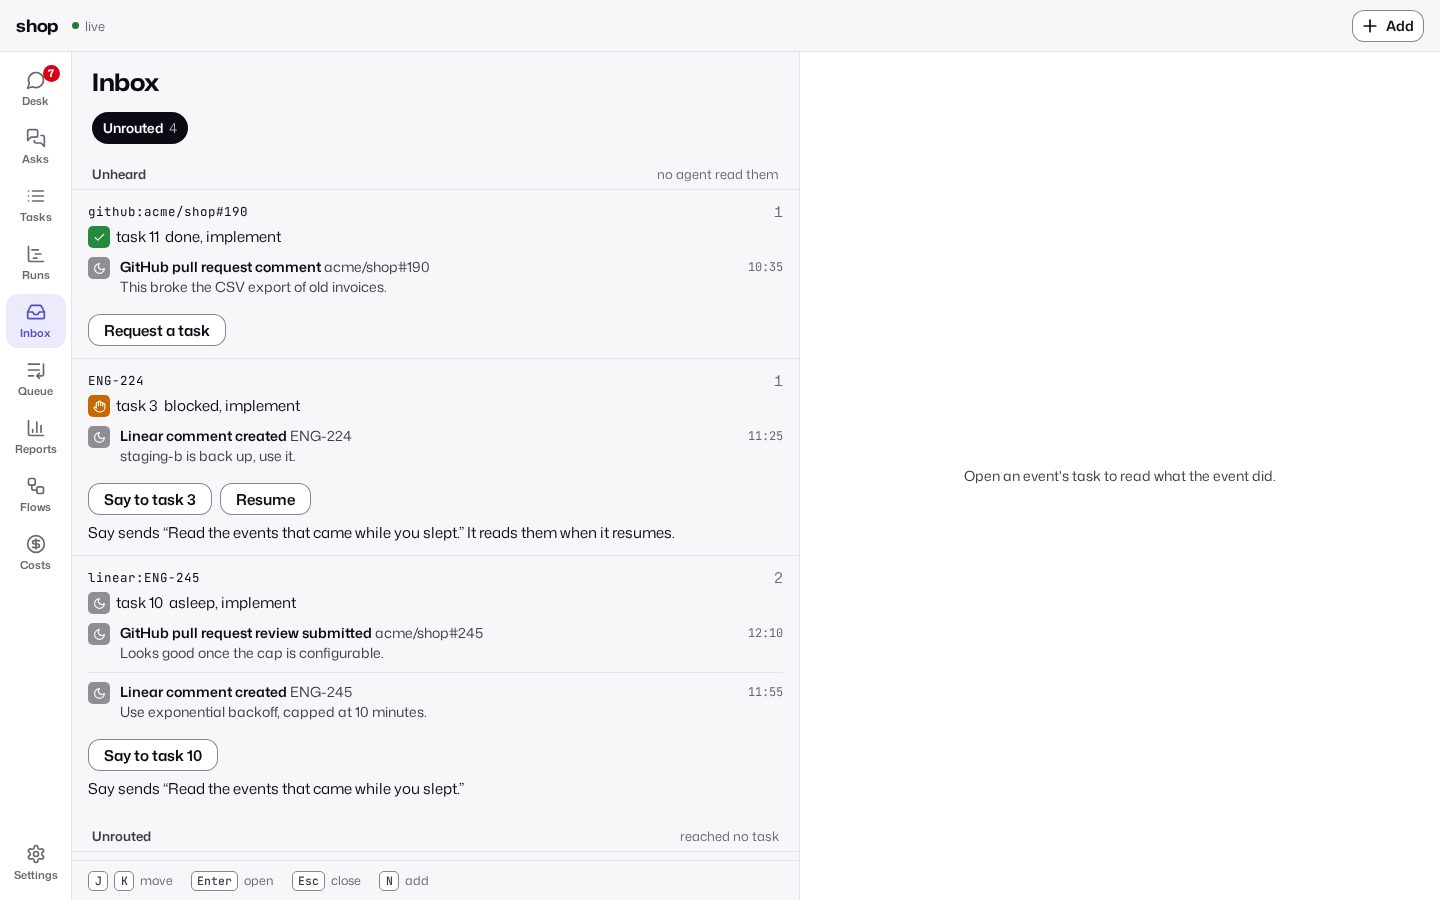
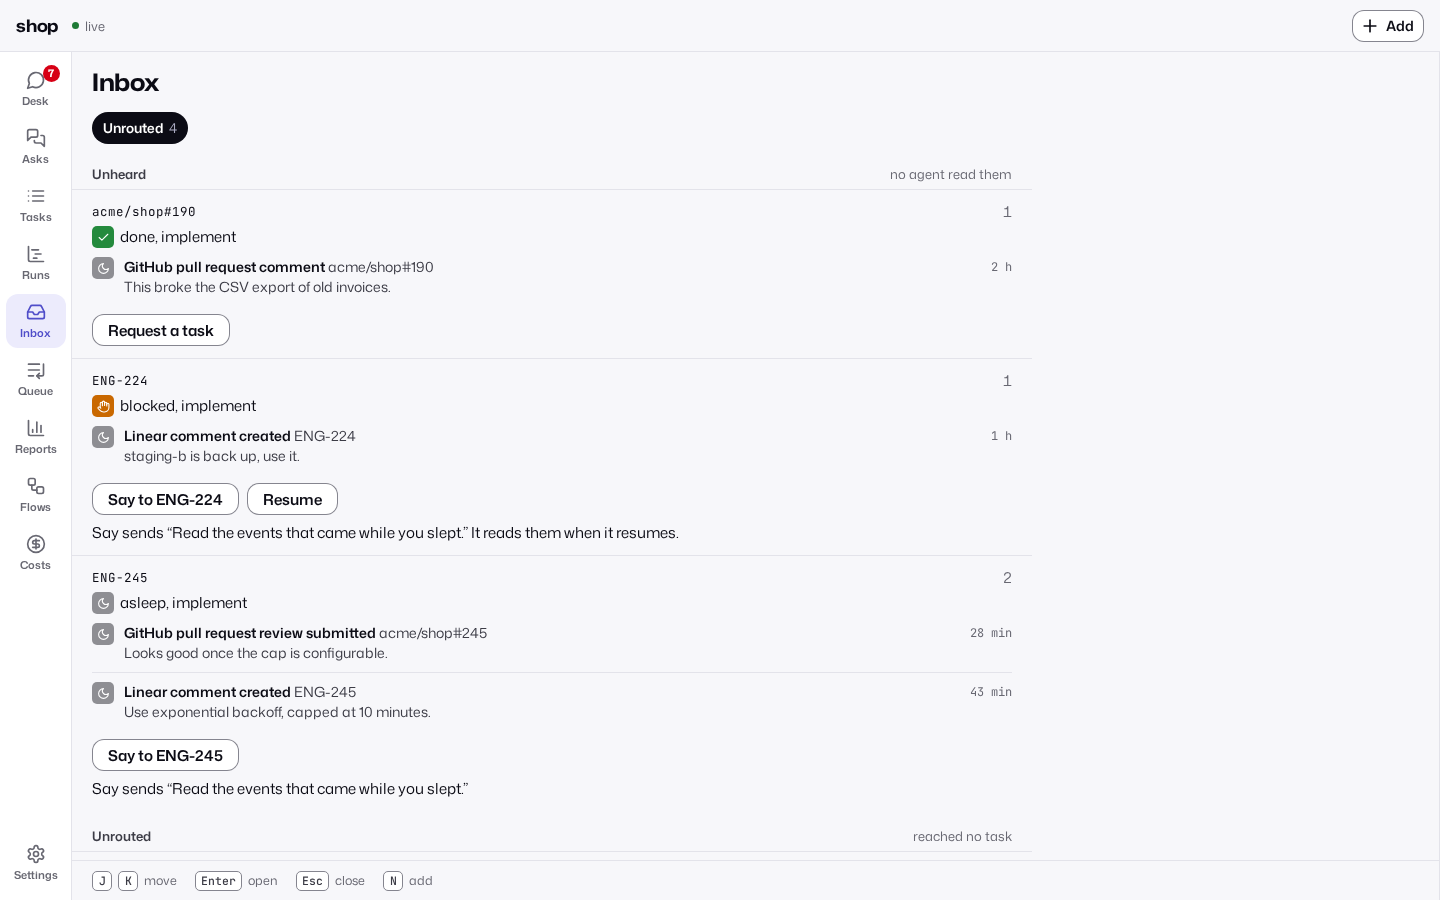
Use the wide screen: open the oldest ask, drop the Inbox drawer, cap pages at 960 px
The design review's slice 8 (m18 and the gutter polish), with the options Max chose on the
wide-screen board: 1B, 2B, 3B and 4B.

- A person who arrives on the wide Desk finds its oldest ask open in the drawer, its row
  marked. Closing it with Esc or the close button leaves the drawer empty until they leave the
  Desk. A redraw, another saved view or Back to the Desk never opens one.
- The Inbox has no drawer, as Tasks, Runs and Queue: its events open no detail. Its groups are
  at most 960 px wide.
- The task, batch and memories pages are at most 960 px wide, against the rail. The tables of
  Tasks, Runs and Queue keep the full width.
- `--gutter` is 20 px inside the wide layout, so bodies line up with titles. The Inbox group's
  16 px and the key hint bar's 16 px use the token, and the back link's chevron lines up with
  the context line under it.
- On wide screens a check's result and a feedback item's class sit beside the name, in one
  column, not at the row's right edge.

diff --git a/crates/priory-core/web/app.js b/crates/priory-core/web/app.js
@@ -11,7 +11,7 @@ import { KINDS, edgeStyle, historyRows, lockBadge, nodeShape, timeline, ungatedP
 import { emptyDetail, eventWords, handled, neverOwned, sinceWords, routeAction, unheardActs, unheardNote, unroutedNote } from "./inbox.js";
 import { editBody, issueName, laneLayout, momentWords, stages, successors } from "./batches.js";
 import { EARLIER_CAP, KEYS, keyboardSession, paintRows, sayLine, screenRows, screenWatch } from "./terminal.js";
-import { actionNote, batchParts, capsuleWords, countHead, countWords, dueParts, memoryNote, memoryTag, mergeSince, nextLink, onRoom, progressView, rowAction, sectionInView, sinceGroups } from "./desk.js";
+import { actionNote, arrivalAsk, batchParts, capsuleWords, countHead, countWords, dueParts, memoryNote, memoryTag, mergeSince, nextLink, onRoom, progressView, rowAction, sectionInView, sinceGroups } from "./desk.js";
 import { TASK_VIEWS, elsewhere, filtered, olderPart, remoteActs, remoteId, remoteSent, taskFacets, taskLabel, taskViews, triageWords, workStep } from "./tasks.js";
 import { RUN_FACETS, RUN_VIEWS, duration, runState, runViews, tokenText } from "./runs.js";
 import { PANELS, backTo, pageTitle } from "./pages.js";
@@ -140,6 +140,8 @@ const state = {
   signInError: null,
   list: "desk",
   listUrl: "/",
+  // The page the last loaded render drew, so the Desk knows a person arrived rather than closed an ask.
+  drawn: null,
   // The last list the person opened; a task or batch page opened next keeps it in its history entry.
   from: null,
   snapshot: null,
@@ -326,7 +328,7 @@ function signOut(reason) {
   watch.stop();
   // Before the token goes: giving the keyboard back needs it.
   keyboard.leave();
-  Object.assign(state, { token: null, data: null, snapshot: null, revision: undefined, signInError: reason, flowsError: null, all: { asks: false, tasks: false, runs: false }, costs: { by: "workflow", loading: false, slow: false, error: null } });
+  Object.assign(state, { token: null, data: null, snapshot: null, revision: undefined, signInError: reason, drawn: null, flowsError: null, all: { asks: false, tasks: false, runs: false }, costs: { by: "workflow", loading: false, slow: false, error: null } });
   render();
 }
 
@@ -1517,7 +1519,7 @@ function taskSections(task) {
   if (pr) {
     sections.push(["pr", "PR", sect("pr", "workflow", `#${pr.number} ${pr.title || ""}`, stateWords(pr.review),
       html`<p class="meta">${pr.branch} into ${pr.base}, head <span class="mono">${String(pr.head_sha).slice(0, 7)}</span>, ${pr.state}</p>
-      <ol class="hist">${pr.checks.map((check) => html`<li>${tile(checkState(check.conclusion), "sm")}<span>${check.name}</span><span>${check.conclusion ? stateWords(check.conclusion) : "running"}</span></li>`)}</ol>${prStackList(task.stack, pr)}${triageList(task.triage)}`)]);
+      <ol class="hist pair">${pr.checks.map((check) => html`<li>${tile(checkState(check.conclusion), "sm")}<span>${check.name}</span><span>${check.conclusion ? stateWords(check.conclusion) : "running"}</span></li>`)}</ol>${prStackList(task.stack, pr)}${triageList(task.triage)}`)]);
   } else if (prs(task)) {
     // The summary needs the pull request's events; the stack does not.
     sections.push(["pr", "PR", sect("pr", "workflow", prs(task), "", html`${prStackList(task.stack, null)}${triageList(task.triage)}`)]);
@@ -1773,7 +1775,7 @@ function triageList(triage) {
   if (!triage?.length) return "";
   const label = (item) => item.replace(/^https:\/\/github\.com\//, "");
   const named = (item) => (item.startsWith("https://") ? html`<a class="autolink" href="${item}" rel="noopener noreferrer" target="_blank">${label(item)}</a>` : item);
-  return html`<p class="meta">Feedback, as the agent sorted it</p><ol class="hist" aria-label="Review feedback items">${triage.map((entry) => html`<li>${tile(TRIAGE_TILES[entry.class] || "queued", "sm")}<span>${named(entry.item)}</span><span>${triageWords(entry.class)}</span></li>`)}</ol>`;
+  return html`<p class="meta">Feedback, as the agent sorted it</p><ol class="hist pair" aria-label="Review feedback items">${triage.map((entry) => html`<li>${tile(TRIAGE_TILES[entry.class] || "queued", "sm")}<span>${named(entry.item)}</span><span>${triageWords(entry.class)}</span></li>`)}</ol>`;
 }
 
 const PULL_TILES = { merged: "done", closed: "dropped" };
@@ -2760,7 +2762,7 @@ function listPanel(panel, wide) {
       ${nextCard(model)}${views}${banner}<div class="scroll">${rows}</div>${wide ? keyHints() : ""}</div>`;
   }
   if (panel === "inbox") {
-    return html`<div class="list" role="region" aria-label="Inbox"><div class="lhead"><h1>Inbox</h1></div>${inboxViews()}<div class="scroll">${unroutedRows()}</div>${wide ? keyHints() : ""}</div>`;
+    return html`<div class="list inbox" role="region" aria-label="Inbox"><div class="lhead"><h1>Inbox</h1></div>${inboxViews()}<div class="scroll">${unroutedRows()}</div>${wide ? keyHints() : ""}</div>`;
   }
   if (panel === "asks") {
     const { views, rows } = asksBody(wide);
@@ -2833,6 +2835,8 @@ async function moveTask(target) {
 }
 
 // Lists whose rows open a page of their own, so they take the whole width, with no drawer.
+// The Inbox has none either: its events open no detail.
+const NO_DRAWER = new Set(["tasks", "runs", "queue", "inbox"]);
 const OWN_PAGE_LISTS = { tasks: tasksBody, runs: runsBody, queue: queueBody };
 
 const keyHints = () => html`<div class="keys"><span><kbd>J</kbd><kbd>K</kbd>move</span><span><kbd>Enter</kbd>open</span><span><kbd>Esc</kbd>close</span><span><kbd>N</kbd>add</span></div>`;
@@ -2958,6 +2962,12 @@ function page() {
   if (!state.data) return loading();
   const size = layout();
   const here = current();
+  const arrival = size === "wide" && here === "desk" && !selectedAsk() && arrivalAsk({ from: state.drawn, list: state.list, view: deskView(), asks: openAsks() });
+  if (arrival) {
+    Object.assign(state, { list: "desk", listUrl: routeKey() });
+    history.replaceState(history.state, "", `/asks/${encodeURIComponent(arrival)}`);
+  }
+  state.drawn = routeKey();
   if (["desk", "asks"].includes(here) && !selectedAsk()) Object.assign(state, { list: here, listUrl: routeKey() });
   const taskId = here === "tasks" && /^\d+$/.test(route()[1] || "") ? Number(route()[1]) : null;
   const batchId = here === "batches" && /^\d+$/.test(route()[1] || "") ? route()[1] : null;
@@ -2994,9 +3004,10 @@ function page() {
   const utility = taskId ? taskPage(taskId) : batchId ? batchPage(batchId) : here === "memories" ? memoriesPage() : here === "reports" ? reportsPage(false) : here === "costs" ? costsPage(false) : here === "workflow" ? flowsPage(false) : here === "settings" ? settingsScreen() : here === "more" ? morePage() : PANELS[list] ? null : notFound();
   const nav = (kind) => tabs(here === "settings" && wide ? "settings" : here === "settings" ? "more" : batchId ? "tasks" : here === "memories" ? "desk" : list, kind);
   if (utility) {
-    return html`${staleStrip()}${top}<div class="${size} no-drawer">${wide ? nav("rail") : ""}<div class="list">${utility}</div></div>${wide ? "" : nav("bar")}`;
+    const capped = taskId || batchId || here === "memories" ? "page" : "";
+    return html`${staleStrip()}${top}<div class="${size} no-drawer">${wide ? nav("rail") : ""}<div class="list ${capped}">${utility}</div></div>${wide ? "" : nav("bar")}`;
   }
-  if (OWN_PAGE_LISTS[list]) return html`${staleStrip()}${top}<div class="${size} no-drawer">${wide ? nav("rail") : ""}${listPanel(list, wide)}</div>${wide ? "" : nav("bar")}`;
+  if (NO_DRAWER.has(list)) return html`${staleStrip()}${top}<div class="${size} no-drawer">${wide ? nav("rail") : ""}${listPanel(list, wide)}</div>${wide ? "" : nav("bar")}`;
   if (!wide) return html`${staleStrip()}${top}<div class="medium">${listPanel(list, false)}${drawer(false, [list])}</div>${nav("bar")}`;
   const layoutNode = view().layout;
   const plain = layoutNode.tabs?.every((child) => child.panel);

diff --git a/crates/priory-core/web/app.css b/crates/priory-core/web/app.css
@@ -152,7 +152,7 @@ a.facet[aria-current="true"] { background: var(--action-soft); color: var(--acti
 .next .rec { display: flex; gap: 6px; align-items: baseline; color: var(--text-2); font: 400 var(--type-small) var(--font-ui); }
 .next .rec span { display: -webkit-box; -webkit-line-clamp: 2; -webkit-box-orient: vertical; overflow: hidden; overflow-wrap: anywhere; }
 .next .btn { justify-self: start; }
-.wide .next { margin-left: 20px; margin-right: 20px; max-width: 440px; }
+.wide .next { max-width: 440px; }
 .since .sgroup + .sgroup { margin-top: 10px; padding-top: 10px; border-top: 1px solid var(--line); }
 .since .sgroup > .mono { color: var(--text); font-size: 13px; }
 .since li { padding: 4px 0; }
@@ -249,7 +249,7 @@ a.autolink { color: var(--action-text); text-decoration: underline; text-underli
 .more .write { margin-left: 0; }
 .writeform { flex: 1 0 100%; display: grid; gap: 8px; padding-left: 12px; }
 .writeform .btn { justify-self: end; }
-.ugroup { padding: 12px 16px; border-top: 1px solid var(--line); }
+.ugroup { padding: 12px var(--gutter); border-top: 1px solid var(--line); }
 .ugroup .l1 { display: flex; justify-content: space-between; gap: 8px; margin: 0 0 4px; }
 .ugroup .l1 .num { color: var(--text-3); font-variant-numeric: tabular-nums; }
 .routeform { display: flex; flex-wrap: wrap; gap: 8px; margin-top: 8px; }
@@ -273,7 +273,7 @@ textarea { font: 400 16px/22px var(--font-ui); color: var(--text); background: v
 /* Wide frame */
 .wtop { height: var(--top-bar); flex: none; display: flex; align-items: center; gap: 14px; padding: 0 16px; border-bottom: 1px solid var(--line); }
 /* Below 1280 px the drawer gives up width so the list keeps room for its questions. */
-.wide { flex: 1; min-height: 0; display: grid; grid-template-columns: var(--rail) minmax(0, 1fr) min(var(--drawer), 50vw); }
+.wide { --gutter: 20px; flex: 1; min-height: 0; display: grid; grid-template-columns: var(--rail) minmax(0, 1fr) min(var(--drawer), 50vw); }
 .medium { flex: 1; min-height: 0; display: grid; grid-template-columns: minmax(320px, 400px) minmax(0, 1fr); }
 .rail { border-right: 1px solid var(--line); display: flex; flex-direction: column; align-items: center; gap: 4px; padding: 10px 0; background: var(--bar); }
 .rail a { width: 60px; height: 54px; border-radius: var(--radius-md); display: flex; flex-direction: column; align-items: center; justify-content: center; gap: 4px; font: 600 var(--type-tab) var(--font-ui); color: var(--text-3); position: relative; }
@@ -287,10 +287,15 @@ textarea { font: 400 16px/22px var(--font-ui); color: var(--text); background: v
 .lhead .cnt .n { font: var(--count-weight) var(--type-count-wide) var(--font-display); font-stretch: var(--count-stretch); letter-spacing: calc(var(--count-tracking) / 2); color: var(--count); }
 .lhead .cnt .w { font: 650 15px/18px var(--font-ui); padding-bottom: 4px; }
 .lhead .cnt .w span { display: block; font: 400 var(--type-caption) var(--font-ui); color: var(--text-3); }
-.wide .views, .wide .facets, .wide .sec { padding-left: 20px; padding-right: 20px; }
 .wide .facet > summary, .wide a.facet { height: var(--control-fine); font-size: 13.5px; }
 .wide .views a { height: var(--control-fine); font-size: 13.5px; }
-.wide .banner, .wide .strip { margin-left: 20px; margin-right: 20px; }
+/* The back link's chevron lines up with the context line under it. */
+.wide .top .back { margin-left: -16px; }
+/* A page reads at 960 px against the rail; the Tasks, Runs and Queue tables keep the full width. */
+.wide .page > .scroll > *, .wide .inbox > :is(.lhead, .views), .wide .inbox > .scroll > * { max-width: 960px; }
+/* A check's or feedback item's result sits beside its name, the results in one column. */
+.wide .hist.pair { display: grid; grid-template-columns: 22px auto minmax(0, 1fr); column-gap: 10px; }
+.wide .hist.pair li { grid-column: 1 / -1; grid-template-columns: subgrid; }
 .tbl { border-collapse: collapse; width: calc(100% - 40px); margin: 6px 20px 0; font: 400 14px/18px var(--font-ui); table-layout: fixed; }
 .tbl th { text-align: left; font: 600 var(--type-caption) var(--font-ui); color: var(--text-3); padding: 8px 8px 6px; }
 .tbl td { height: var(--row-wide); padding: 0 8px; border-top: 1px solid var(--line); white-space: nowrap; overflow: hidden; text-overflow: ellipsis; cursor: pointer; }
@@ -305,7 +310,7 @@ textarea { font: 400 16px/22px var(--font-ui); color: var(--text); background: v
 .tbl th:nth-child(5) { width: 150px; } .tbl th:nth-child(6) { width: 64px; }
 .tbl td.q { white-space: normal; padding-top: 8px; padding-bottom: 8px; }
 .tbl td.q span { display: -webkit-box; -webkit-line-clamp: 2; -webkit-box-orient: vertical; overflow: hidden; overflow-wrap: anywhere; }
-.keys { display: flex; gap: 18px; align-items: center; font: 400 12.5px/1 var(--font-ui); color: var(--text-3); padding: 0 16px; height: 40px; border-top: 1px solid var(--line); flex: none; }
+.keys { display: flex; gap: 18px; align-items: center; font: 400 12.5px/1 var(--font-ui); color: var(--text-3); padding: 0 var(--gutter); height: 40px; border-top: 1px solid var(--line); flex: none; }
 .keys span { display: inline-flex; gap: 6px; align-items: center; }
 .drawer { background: var(--surface); display: flex; flex-direction: column; min-height: 0; min-width: 0; }
 .drawer .jump { background: var(--surface); }

diff --git a/crates/priory-core/web/desk.test.js b/crates/priory-core/web/desk.test.js
@@ -1,6 +1,6 @@
 import { test } from "node:test";
 import assert from "node:assert/strict";
-import { nextLink, onRoom, sinceGroups, mergeSince, progressView, sectionInView, dueText, rowAction, actionNote, batchParts, countWords, memoryNote, memoryTag, capsuleWords, countHead } from "./desk.js";
+import { nextLink, onRoom, sinceGroups, mergeSince, progressView, sectionInView, dueText, rowAction, actionNote, batchParts, countWords, memoryNote, memoryTag, capsuleWords, countHead, arrivalAsk } from "./desk.js";
 
 const why = "work stopped and waits on a person";
 
@@ -163,4 +163,16 @@ test("the capsule answers while live, and only reads the asks while offline", ()
   assert.deepEqual(capsuleWords(7, false), { text: "Answer 7 asks", icon: "ask", off: false });
   assert.deepEqual(capsuleWords(1, false), { text: "Answer 1 ask", icon: "ask", off: false });
   assert.deepEqual(capsuleWords(7, true), { text: "Read 7 asks, offline", icon: "unplug", off: true });
+});
+
+test("a wide Desk opens its oldest ask on arrival, and stays empty once that drawer closes", () => {
+  const asks = [{ id: 7 }, { id: 3 }];
+  assert.equal(arrivalAsk({ from: null, list: "desk", view: "needs", asks }), 7);
+  assert.equal(arrivalAsk({ from: "/tasks/4", list: "desk", view: "needs", asks }), 7);
+  assert.equal(arrivalAsk({ from: "/asks/9", list: "asks", view: "needs", asks }), 7);
+  assert.equal(arrivalAsk({ from: "/asks/7", list: "desk", view: "needs", asks }), null);
+  assert.equal(arrivalAsk({ from: "/", list: "desk", view: "needs", asks }), null);
+  assert.equal(arrivalAsk({ from: "/?view=running", list: "desk", view: "needs", asks }), null);
+  assert.equal(arrivalAsk({ from: "/tasks", list: "desk", view: "running", asks }), null);
+  assert.equal(arrivalAsk({ from: null, list: "desk", view: "needs", asks: [] }), null);
 });

diff --git a/crates/priory-core/web/desk.js b/crates/priory-core/web/desk.js
@@ -149,3 +149,16 @@ export function capsuleWords(n, offline) {
   const asks = `${n} ${n === 1 ? "ask" : "asks"}`;
   return offline ? { text: `Read ${asks}, offline`, icon: "unplug", off: true } : { text: `Answer ${asks}`, icon: "ask", off: false };
 }
+
+/**
+ * The ask a wide Desk opens in its drawer as the person arrives, else null. Arrival comes from
+ * another page; a redraw, another saved view, or a closed Desk ask leaves the drawer empty.
+ * @param {{ from: string | null, list: string, view: string, asks: { id: any }[] }} at
+ */
+export function arrivalAsk({ from, list, view, asks }) {
+  if (view !== "needs" || !asks.length) return null;
+  const [first, id] = (from || "").split(/[?#]/)[0].split("/").filter(Boolean);
+  if (from !== null && (!first || first === "index.html")) return null;
+  if (first === "asks" && id && list === "desk") return null;
+  return asks[0].id;
+}

diff --git a/DESIGN.md b/DESIGN.md
@@ -91,7 +91,8 @@ The view sets two attributes on `<html>`:
 [`design/tokens/structure.css`](design/tokens/structure.css) holds the values. The rules:
 
 - **Spacing:** a 4 px grid, `--space-1` (4 px) to `--space-8` (48 px). Lay out siblings with
-  `gap`, not margins. The side gutter is `--gutter`, 16 px or the safe-area inset.
+  `gap`, not margins. The side gutter is `--gutter`, 16 px or the safe-area inset, and 20 px
+  in the wide layout.
 - **Radii:** `--radius-sm` (5 px) for tags and key hints, `--radius-tile` (8 px) for state tiles,
   `--radius-md` (12 px) for inputs, banners, the segmented control, the workflow grid and the
   terminal, `--radius-card` (14 px) for option buttons, the answer bar's buttons, sheets and theme
@@ -243,9 +244,14 @@ and the rubric red `--count`.
 - **List**: the selected view as an explorer list (below), at least 600 px wide at 1440 px. It
   holds no facet column and no histogram: facets are chips, and the histogram lives in Runs.
 - **Drawer**, `--drawer` (640 px) on `--surface`: the selected ask, task or run. It opens beside
-  the list and never covers it.
+  the list and never covers it. A person who arrives on the Desk's Needs me view finds its oldest
+  ask open in the drawer, its row marked; once they close it, the drawer stays empty until they
+  leave the Desk. Tasks, Runs, Queue and the Inbox have no drawer: the list takes the width.
+- **Page width**: the task, batch and memories pages, and the Inbox's groups, are at most 960 px
+  wide, against the rail. The Tasks, Runs and Queue tables keep the full width.
+- **Back link**: its chevron lines up with the context line under it.
 - **Key hint bar** at the bottom of the Desk, Asks and Inbox lists, 40 px: `J` `K` move, `Enter`
-  open, `Esc` close, `N` add.
+  open, `Esc` close, `N` add. It sits at `--gutter`, as the list's rows do.
 
 ## Iconography
 
@@ -505,8 +511,7 @@ workflow, then its 5 newest events with the `asleep` tile. Under them, by the ta
 group's `say_text` through the task's say verb, with "Say sends “...”" in `--text-2`; Say and the
 task page's **Resume** for a blocked one, whose line adds "It reads them when it resumes."; the
 owned group's Revive or Request a task for an ended one; "Its next run reads them." otherwise.
-Events open no detail, so the empty drawer beside the panel says "Open an event's task to read what the event
-did."
+Events open no detail, so the Inbox has no drawer on wider screens.
 
 ### Add
 
@@ -978,6 +983,8 @@ What starts next and why. Saved views: Waiting, Held and Last day, each with a c
   1.5 px `--danger-text` edge and the `lock` icon.
 - **Feedback**, in the pull request section: each review feedback item the agent sorted, as a
   history row with its link and its class in plain words: "trivial", "nothing to do" or "your call".
+  On wide screens each check's result and each item's class sit beside its name, in one column,
+  not at the row's right edge.
 - **Inbox**, after the pull request: the events routed to the task, newest first, at most 20, as
   history rows. Each shows a tile for its prompt (`done` delivered, `queued` still queued, `running`
   being typed, `prompt` unconfirmed, `dropped` withdrawn, `asleep` kept for the next run, `ready`

diff --git a/docs/reference/views.md b/docs/reference/views.md
@@ -109,8 +109,8 @@ tabs = [
 ```
 
 On a phone, every leaf becomes a tab in the tree's order: the bottom bar shows the first four and
-More holds the rest. On a wide screen, a `tabs` root becomes the rail beside the list and the
-drawer; any other root is laid out as written. See [DESIGN.md](../../DESIGN.md#layout).
+More holds the rest. On a wide screen, a `tabs` root becomes the rail beside the list, and
+the drawer beside the Desk and Asks; any other root is laid out as written. See [DESIGN.md](../../DESIGN.md#layout).
 
 ## Example
 
